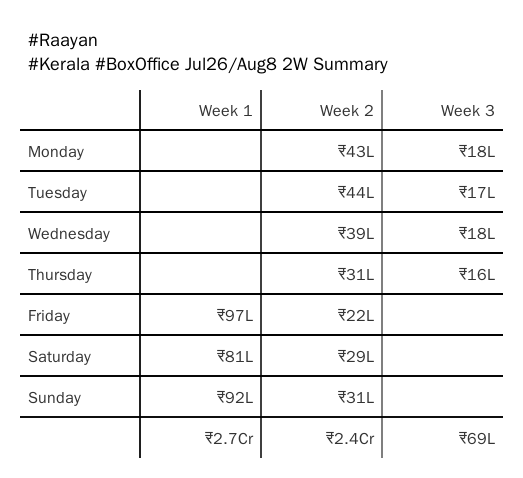
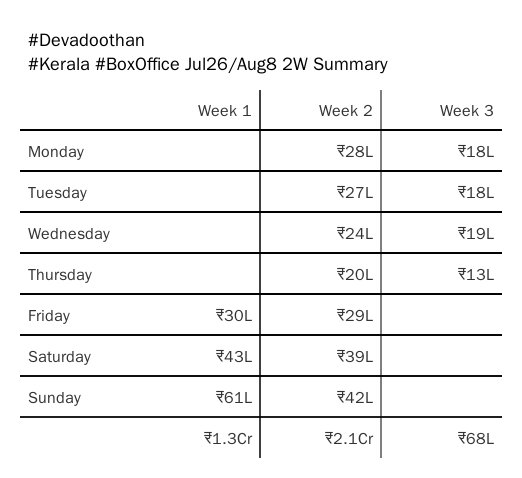
update report.png

diff --git a/weekly.report.js b/weekly.report.js
@@ -10,8 +10,8 @@ const { moment } = require("./config/moment.js");
 const { db, syncFileInfo } = require("./config/nedb.js");
 
 (async () => {
-  const name = /raayan/i;
-  const displayName = "Raayan";
+  const name = /devadoothan/i;
+  const displayName = "Devadoothan";
   const from = moment("2024-07-26", ["YYYY-MM-DD"]);
   const to = moment("2024-08-08", ["YYYY-MM-DD"]);
 
@@ -80,7 +80,7 @@ const { db, syncFileInfo } = require("./config/nedb.js");
     data._total[dataIndex] = Object.values(data)
       .filter((i) => i[dataIndex])
       .reduce((m, i) => m + i[dataIndex], 0);
-    columns.push("|");
+    if (1 < i) columns.push("|");
     columns.push({
       width: 120,
       title: `Week ${i}`,
